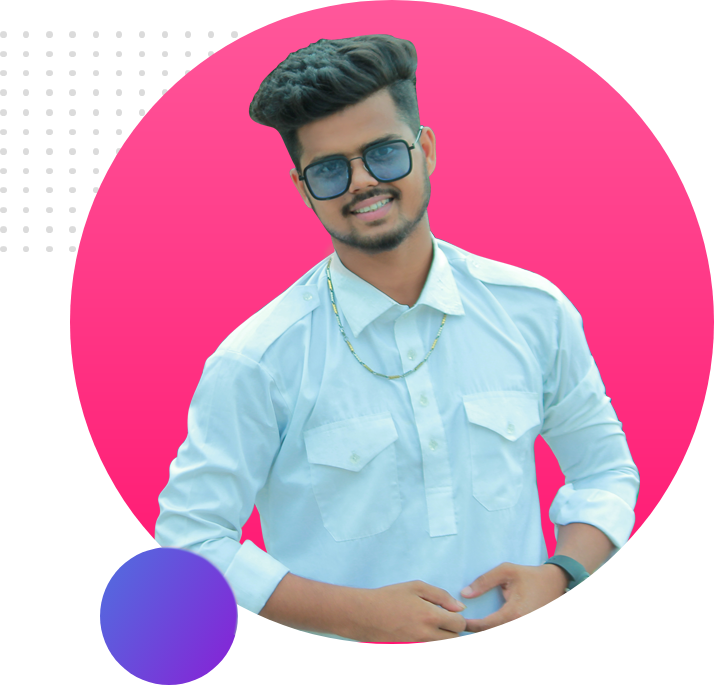
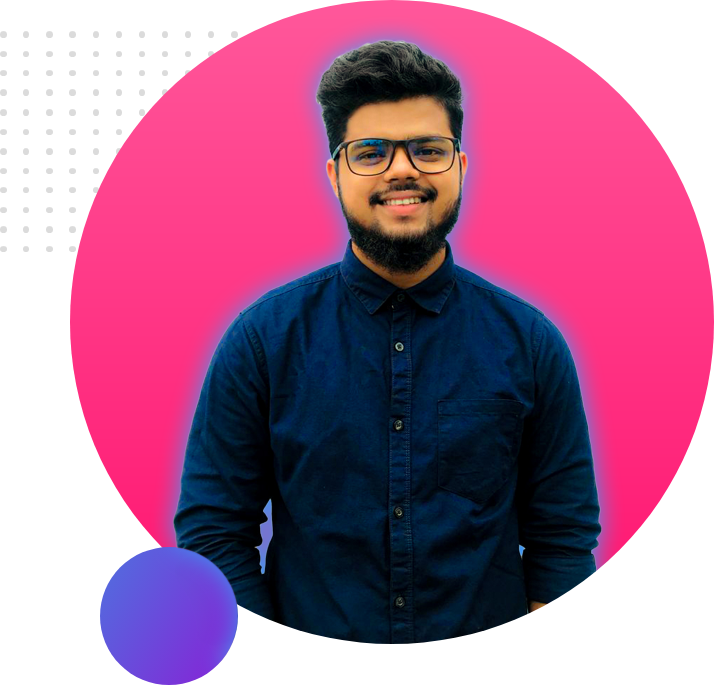
dream added

diff --git a/index.html b/index.html
@@ -18,14 +18,28 @@
             <h1>Welcome To</h1>
             <h1><span class="orange-color">Md.pervaj</span> World!</h1>
             <h3>About Myself</h3>
-            <p>ami kub bala puya sara din coding kori. mone koile laptop taki uti naile uti na. amar mone kali chay
-                coding
-                kortam.</p>
+            <p>Lorem ipsum dolor sit amet consectetur adipisicing elit. Veniam, fuga vel. Distinctio numquam quidem
+                aliquam aliquid assumenda temporibus explicabo, sint beatae qui, eos ea ipsa nemo deserunt
+                necessitatibus amet illo.</p>
             <a class="link-button" target="_blank" href="https://www.nopcommerce.com/en/demo-link">HIRE ME</a>
         </div>
         <div class="half-width">
             <img src="pervaj.png" alt="">
         </div>
+    </section>
+    <section class="dream-big">
+        <div class="half-width">
+            <img src="pervaj2.png" alt="">
+        </div>
+        <div class="half-width">
+            <h1>Dream Big</h1>
+            <h2>Become a Web Developer</h2>
+            <p>Lorem ipsum dolor sit amet consectetur adipisicing elit. Voluptas minima labore vel fugit eveniet tempore
+                eius alias. Rerum architecto velit, maxime, at, tempora numquam dolores omnis explicabo asperiores
+                aliquid unde.</p>
+            <a class="link-button" target="_balnk" href="">DOWNLOAD RESUME</a>
+        </div>
+
     </section>
 </body>
 

diff --git a/style.css b/style.css
@@ -13,11 +13,12 @@ h1 {
 
 section {
     display: flex;
+    margin-bottom: 100px;
 }
 
 .half-width {
     width: 50%;
-    padding: 4%;
+    padding: 5%;
 }
 
 .half-width img {
@@ -36,4 +37,10 @@ section {
 .top-banner {
     background-image: url(top-banner.png);
     background-repeat: no-repeat;
+}
+
+.dream-big {
+    background-image: url(dream-bg.png);
+    background-repeat: no-repeat;
+    background-position: right;
 }
